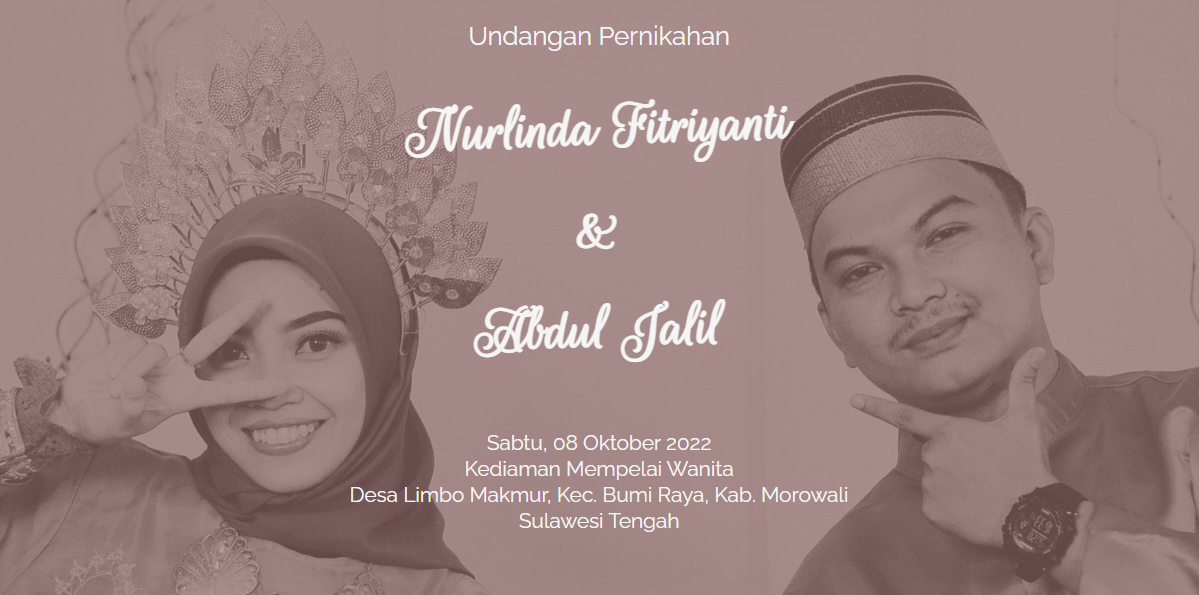
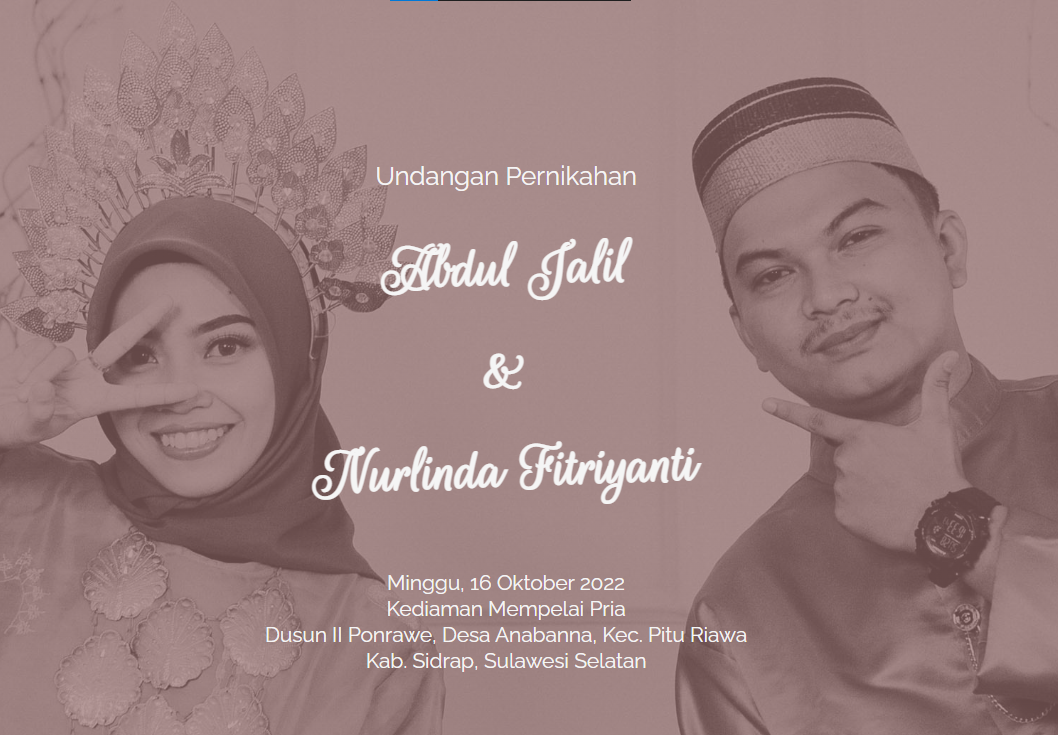
Third commit

diff --git a/index.html b/index.html
@@ -1,17 +1,22 @@
 <!DOCTYPE html>
-<html lang="en">
+<html lang="id_ID">
   <head>
     <meta charset="utf-8" />
     <meta name="theme-color" content="#BC8887" />
     <meta http-equiv="X-UA-Compatible" content="IE=edge" />
     <meta name="viewport" content="width=device-width, initial-scale=1" />
     <meta name="twitter:card" content="summary">
-    <title>Undangan Pernikahan Nurlinda & Jalil</title>
-    <meta property="og:title" content="Undangan Pernikahan Nurlinda & Jalil - Minggu, 16 Oktober 2022">
-    <meta property="og:description" content="Undangan Pernikahan Nurlinda & Jalil - Minggu, 16 Oktober 2022 di RM Abd Jalil, Kab. Sidrap, Sulawesi Selatan">
-    <meta property="og:locale" content="id_ID" />
-    <meta property="og:image" content="https://jalil-nikah.netlify.app/images/thumbnail-fitri&jalil.png">
+    <meta name="twitter:title" content="Undangan Pernikahan Jalil & Nurlinda">
+    <meta name="twitter:description" content="Undangan Pernikahan Jalil & Nurlinda - Minggu, 16 Oktober 2022 di Dusun II Ponrawe, Kab. Sidrap">
+    <meta name="twitter:site" content="@abcdejalilll">
+    <meta name="twitter:creator" content="@abcdejalilll">
+    <meta name="twitter:image" content="https://jalil-nikah.netlify.app/images/thumbnail1.png">
     <meta property="og:url" content="https://jalil-nikah.netlify.app/">
+    <meta property="og:title" content="Undangan Pernikahan Jalil & Nurlinda">
+    <meta property="og:description" content="Undangan Pernikahan Jalil & Nurlinda - Minggu, 16 Oktober 2022 di Dusun II Ponrawe, Kab. Sidrap">
+    <meta property="og:image" content="https://jalil-nikah.netlify.app/images/thumbnail1.png">
+    <meta property="og:locale" content="id_ID" />
+    <title>Undangan Pernikahan Nurlinda & Jalil</title>
     <!-- Bulma Version 0.8.x-->
     <link rel="stylesheet" href="https://unpkg.com/bulma@0.8.0/css/bulma.min.css" />
     <link rel="stylesheet" href="https://unpkg.com/bulma-tooltip@0.1.5/dist/bulma-tooltip.min.css" />
@@ -23,7 +28,7 @@
       crossorigin="anonymous"></script>
     <script type="text/javascript" src="https://ajax.googleapis.com/ajax/libs/jquery/1.9.1/jquery.min.js"></script>
     <script src="js/jquery.coundown.js"></script>
-    <link rel="icon" type="images/png" href="images/favicon.png" />
+    <link rel="icon" type="images/png" href="images/icon.svg" />
     <!-- Global site tag (gtag.js) - Google Analytics -->
     <script async src="https://www.googletagmanager.com/gtag/js?id=UA-23064379-20"></script>
     <!-- Begin Script for Countdown -->
@@ -44,7 +49,7 @@
     <!-- Begin Preloader -->
     <div class="preloader-wrapper">
       <div class="preloader">
-        <img src="images/favicon.png" alt="Flower"/>
+        <img src="images/icon.svg" alt="j&n"/>
       </div>
     </div>
     <!-- End Preloader-->
@@ -94,22 +99,20 @@
         <div class="hero-body">
           <div class="container has-text-centered">
             <h1 class="subtitle">Undangan Pernikahan</h1>
-            <h2 class="title">Nurlinda Fitriyanti</h2>
+            <h2 class="title">Abdul Jalil</h2>
             <h2 class="title"> & </h2>
-            <h2 class="title"> Abdul Jalil</h2>
+            <h2 class="title">Nurlinda Fitriyanti</h2>
           <!-- Begin Hero Content-->
           <div class="container has-text-centered">
             <h4 class="subtitle tempatwaktu">
-              
-              Sabtu, 08 Oktober 2022 
+              Minggu, 16 Oktober 2022 
               </br>
-              Kediaman Mempelai Wanita 
+              Kediaman Mempelai Pria 
               <br>
-              Desa Limbo Makmur, Kec. Bumi Raya, Kab. Morowali
-              </br>
-              Sulawesi Tengah
-            
-          </h4>
+              Dusun II Ponrawe, Desa Anabanna, Kec. Pitu Riawa 
+              <br>
+              Kab. Sidrap, Sulawesi Selatan
+            </h4>
           </div>
           <!-- Start Countdown -->       
           <div>
@@ -130,8 +133,8 @@
               var month = now.getMonth() + 1;
               var year = now.getFullYear() + 1;
           
-              var nextyear = month + '/' + day + '/' + year + ' 10:00:00';
-              var harih = '10/08/2022 10:00:00';
+              var nextyear = month + '/' + day + '/' + year + ' 09:00:00';
+              var harih = '10/16/2022 09:00:00';
 
               $('#hitungmundur1').countdown({
                 date: harih, // TODO Date format: 10/16/2022 17:00:00
@@ -146,17 +149,15 @@
           <!-- End Countdown -->
           <h2 class="title"> dan </h2>
           <h4 class="subtitle tempatwaktu">
-              
-            Minggu, 16 Oktober 2022 
+            Sabtu, 08 Oktober 2022 
             </br>
-            Kediaman Mempelai Pria 
+            Kediaman Mempelai Wanita 
             <br>
-            Dusun II Ponrawe, Desa Anabanna, Kec. Pitu Riawa 
-            <br>
-            Kab. Sidrap, Sulawesi Selatan
-          
-        </h4>
-      </div>
+            Desa Limbo Makmur, Kec. Bumi Raya, Kab. Morowali
+            </br>
+            Sulawesi Tengah
+          </h4>
+        </div>
       <!-- Start Countdown -->       
       <div>
         <ul id="hitungmundur" >
@@ -176,8 +177,8 @@
           var month = now.getMonth() + 1;
           var year = now.getFullYear() + 1;
       
-          var nextyear = month + '/' + day + '/' + year + ' 09:00:00';
-          var harih = '10/16/2022 09:00:00';
+          var nextyear = month + '/' + day + '/' + year + ' 10:00:00';
+          var harih = '10/08/2022 10:00:00';
 
           $('#hitungmundur').countdown({
             date: harih, // TODO Date format: 10/16/2022 17:00:00
@@ -190,8 +191,8 @@
         </script>  
       </div>
       <!-- End Countdown -->
-        </div>
-        <!-- End Hero Content-->
+    </div>
+      <!-- End Hero Content-->
 		
         <!-- Begin Hero Menu -->
         <div class="hero-foot ">
@@ -248,11 +249,11 @@
 
         <div data-aos="fade-up" data-aos-easing="linear">
           <div class="nama-lengkap" >
-          Nurlinda Fitriyanti, S.Pd
+          Abdul Jalil, S.Pd., M.Pd
           </div>
           <div class="ampersand">&</div>
           <div class="nama-lengkap">
-          Abdul Jalil, S.Pd., M.Pd
+          Nurlinda Fitriyanti, S.Pd
           </div>
            
         </div>
@@ -336,31 +337,10 @@
 
       <!-- Begin Lokasi Section -->
       <section class="section-darker" id="lokasi" >
+        <!-- kediaman nurlinda -->
         <div class="container">
           <div class="column is-12 regular-section" data-aos="fade-up" data-aos-easing="linear">
             <h1 class="title has-text-centered section-title">Lokasi</h1>
-            <p class="tempat is-larger has-text-centered">
-              <strong>Kediaman Nurlinda Fitriyanti</strong>
-              <br>
-              Desa Limbo Makmur, Kec. Bumi Raya
-              <br>
-              Kab. Morowali, Sulawesi Tengah
-              <br>
-            </p>
-          </div>
-          <div class="section-map" data-aos="fade-up" data-aos-easing="linear">
-            <iframe src="https://www.google.com/maps/embed?pb=!1m18!1m12!1m3!1d13409.74498552995!2d121.68714585165496!3d-2.2504675005314874!2m3!1f0!2f0!3f0!3m2!1i1024!2i768!4f13.1!3m3!1m2!1s0x2d9aa6443fc88fa5%3A0xc5bedb7a5bd2753!2sLimbo%20Makmur%2C%20Kec.%20Bumi%20Raya%2C%20Kabupaten%20Morowali%2C%20Sulawesi%20Tengah!5e0!3m2!1sid!2sid!4v1664377418311!5m2!1sid!2sid" width="100%" height="450" frameborder="0" style="border:0;" allowfullscreen=""></iframe>
-          </div>
-          <div class="space40px"></div>
-          <div class="has-text-centered" data-aos="fade-up" data-aos-easing="linear">
-            <a href="https://goo.gl/maps/EmX9mcbdpxVq9TiF8" class="button btn-cta" target="_blank" data-aos="zoom-in">
-              <i class="far fa-directions"></i>
-              &nbsp;&nbsp;Google Maps
-            </a>
-          </div>
-        </div>
-        <div class="container">
-          <div class="column is-12 regular-section" data-aos="fade-up" data-aos-easing="linear">
             <p class="tempat is-larger has-text-centered">
               <br>
               <strong>Kediaman Abdul Jalil</strong>
@@ -377,6 +357,29 @@
           <div class="space40px"></div>
           <div class="has-text-centered" data-aos="fade-up" data-aos-easing="linear">
             <a href="https://goo.gl/maps/MUBY4GhsFPdMhqGJ7" class="button btn-cta" target="_blank" data-aos="zoom-in">
+              <i class="far fa-directions"></i>
+              &nbsp;&nbsp;Google Maps
+            </a>
+          </div>
+        </div>
+        <!-- kediaman jalil -->
+        <div class="container">
+          <div class="column is-12 regular-section" data-aos="fade-up" data-aos-easing="linear">
+            <p class="tempat is-larger has-text-centered">
+              <strong>Kediaman Nurlinda Fitriyanti</strong>
+              <br>
+              Desa Limbo Makmur, Kec. Bumi Raya
+              <br>
+              Kab. Morowali, Sulawesi Tengah
+              <br>
+            </p>
+          </div>
+          <div class="section-map" data-aos="fade-up" data-aos-easing="linear">
+            <iframe src="https://www.google.com/maps/embed?pb=!1m18!1m12!1m3!1d13409.74498552995!2d121.68714585165496!3d-2.2504675005314874!2m3!1f0!2f0!3f0!3m2!1i1024!2i768!4f13.1!3m3!1m2!1s0x2d9aa6443fc88fa5%3A0xc5bedb7a5bd2753!2sLimbo%20Makmur%2C%20Kec.%20Bumi%20Raya%2C%20Kabupaten%20Morowali%2C%20Sulawesi%20Tengah!5e0!3m2!1sid!2sid!4v1664377418311!5m2!1sid!2sid" width="100%" height="450" frameborder="0" style="border:0;" allowfullscreen=""></iframe>
+          </div>
+          <div class="space40px"></div>
+          <div class="has-text-centered" data-aos="fade-up" data-aos-easing="linear">
+            <a href="https://goo.gl/maps/EmX9mcbdpxVq9TiF8" class="button btn-cta" target="_blank" data-aos="zoom-in">
               <i class="far fa-directions"></i>
               &nbsp;&nbsp;Google Maps
             </a>
@@ -433,7 +436,7 @@
       <div class="space24px"></div>
       <div class="tile is-ancestor">
         <div class="tile is-parent">
-          <article class="tile is-child notification foto6" data-aos="fade-up" data-aos-easing="linear">
+          <article class="tile is-child notification foto4" data-aos="fade-up" data-aos-easing="linear">
             <div class="content">
               <p class="title-foto">17 Mei 2022</p>
               <p class="subtitle-foto">
@@ -443,7 +446,7 @@
           </article>
         </div>
         <div class="tile is-parent">
-          <article class="tile is-child notification foto4" data-aos="fade-up" data-aos-easing="linear">
+          <article class="tile is-child notification foto5" data-aos="fade-up" data-aos-easing="linear">
             <div class="content">
               <p class="title-foto">19 Agustus 2022</p>
               <p class="subtitle-foto">Pertemuan 2 keluarga membicarakan niat baik</p>
@@ -451,7 +454,7 @@
           </article>
         </div>
         <div class="tile is-parent">              
-          <article class="tile is-child notification foto5" data-aos="fade-up" data-aos-easing="linear">
+          <article class="tile is-child notification foto6" data-aos="fade-up" data-aos-easing="linear">
             <div class="content">
               <p class="title-foto">15 September 2022</p>
               <p class="subtitle-foto">Prosesi lamaran</p>
@@ -459,7 +462,7 @@
           </article>
         </div>
         <div class="tile is-parent">              
-          <article class="tile is-child notification foto6" data-aos="fade-up" data-aos-easing="linear">
+          <article class="tile is-child notification foto7" data-aos="fade-up" data-aos-easing="linear">
             <div class="content">
               <p class="title-foto">8 Oktober 2022</p>
               <p class="subtitle-foto">Hari akad. Hari dimana perjalanan baru dimulai</p>
@@ -547,7 +550,7 @@
     <!-- Begin Footer -->
     <div class="footer">
       <div class="container">
-        <p>All Rights Reserved. &copy; 2022 <a style="color: yellow;" href="#">Fitriyanti&Jalil</a> <br> Developed By : <a style="color: #303134;" href="https://halip26.github.io/">Halip26</a></p>
+        <p>All Rights Reserved. &copy; 2022 <a style="color: yellow; font-weight: bolder;" href="#">Nurlinda💘Jalil</a> <br>Developed By <a style="color: #221b35; font-weight: bolder;" href="https://halip26.github.io/">@Halip26</a></p>
       </div>
     </div>
     <!-- End Footer -->

diff --git a/css/menikah.css b/css/menikah.css
@@ -572,7 +572,7 @@ body.preloader-site {
 
 
 .foto1 {
-  background-image: linear-gradient(rgba(95, 2, 2, 0.5), rgba(48, 47, 47, 0.9)), url("../images/nurlinda-jalil-phone.jpg");
+  background-image: linear-gradient(rgba(255, 109, 194, 0.384), rgba(124, 41, 41, 0.733)), url("../images/1.jpg");
   background-size: cover;
   background-position: center;
   background-repeat:no-repeat;
@@ -581,7 +581,7 @@ body.preloader-site {
 
 
 .foto2 {
-  background-image: linear-gradient(rgba(95, 2, 2, 0.5), rgba(48, 47, 47, 0.9)), url("../images/nurlinda-jalil-phone.jpg");
+  background-image: linear-gradient(rgba(28, 95, 172, 0.384), rgba(105, 0, 91, 0.733)), url("../images/2.jpg");
   background-size: cover;
   background-position: center;
   background-repeat:no-repeat;
@@ -589,7 +589,7 @@ body.preloader-site {
 }
 
 .foto3 {
-  background-image: linear-gradient(rgba(95, 2, 2, 0.5), rgba(48, 47, 47, 0.9)), url("../images/nurlinda-jalil-phone.jpg");
+  background-image: linear-gradient(rgba(218, 214, 4, 0.438), rgba(15, 40, 49, 0.733)), url("../images/3.jpg");
   background-size: cover;
   background-position: center;
   background-repeat:no-repeat;
@@ -597,7 +597,7 @@ body.preloader-site {
 }
 
 .foto4 {
-  background-image: linear-gradient(rgba(95, 2, 2, 0.5), rgba(48, 47, 47, 0.9)), url("../images/nurlinda-jalil-phone.jpg");
+  background-image: linear-gradient(rgba(43, 170, 243, 0.438), rgba(148, 5, 112, 0.733)), url("../images/4.jpg");
   background-size: cover;
   background-position: top;
   background-repeat:no-repeat;
@@ -605,23 +605,28 @@ body.preloader-site {
 }
 
 .foto5 {
-  background-image: linear-gradient(rgba(95, 2, 2, 0.5), rgba(48, 47, 47, 0.9)), url("../images/nurlinda-jalil-phone.jpg");
+  background-image: linear-gradient(rgba(247, 184, 11, 0.445), rgba(0, 146, 139, 0.527)), url("../images/5.jpg");
   background-size: cover;
   background-position: center;
   background-repeat:no-repeat;
   min-height: 24rem;
 }
-
 
 .foto6 {
-  background-image: linear-gradient(rgba(95, 2, 2, 0.5), rgba(48, 47, 47, 0.9)), url("../images/nurlinda-jalil-phone.jpg");
+  background-image: linear-gradient(rgba(228, 44, 182, 0.233), rgba(70, 4, 4, 0.527)), url("../images/6.jpg");
   background-size: cover;
   background-position: center;
   background-repeat:no-repeat;
   min-height: 24rem;
 }
 
-
+.foto7 {
+  background-image: linear-gradient(rgba(245, 146, 192, 0.089), rgba(59, 8, 48, 0.288)), url("../images/7.jpg");
+  background-size: cover;
+  background-position: center;
+  background-repeat:no-repeat;
+  min-height: 24rem;
+}
 
 .title-foto {
   font-size: 18pt;
@@ -637,7 +642,7 @@ body.preloader-site {
   font-weight: 700;
   font-size: 14pt;
   font-weight: 600;
-  margin-top: 15px;
+  padding-top: 240px;
   text-align: left;
   color: white;
 }
